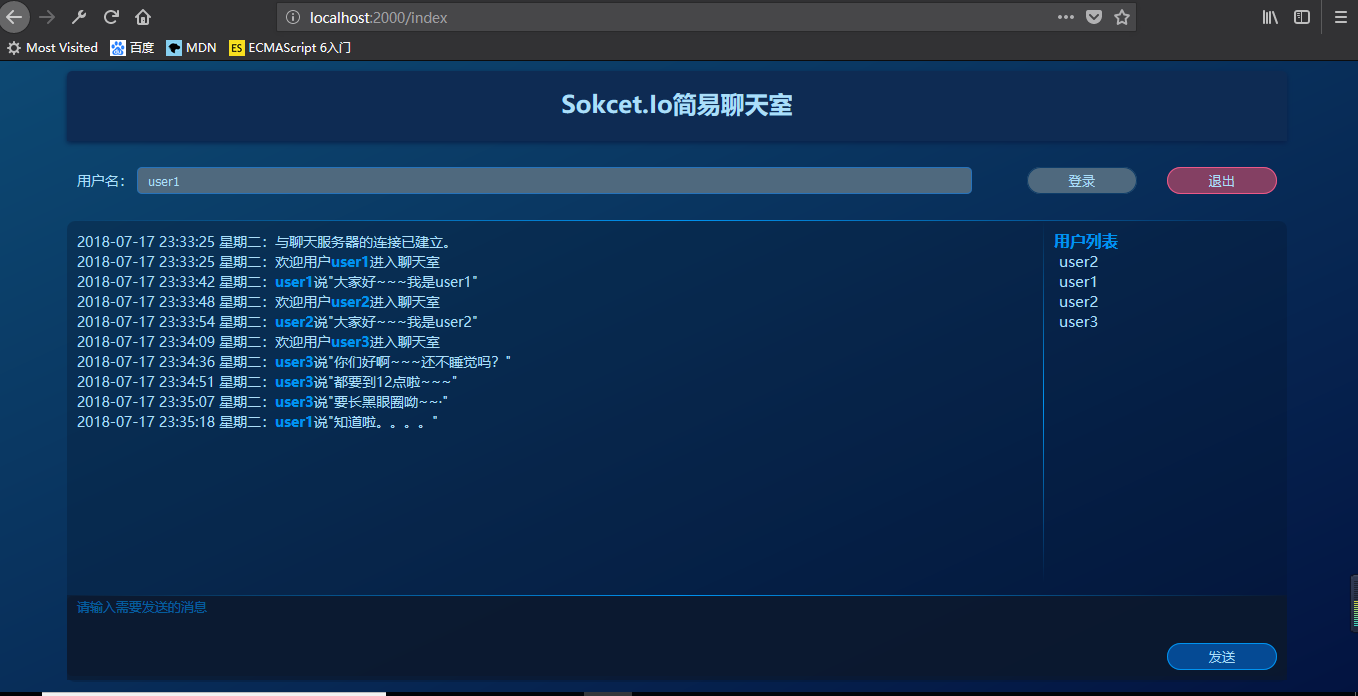
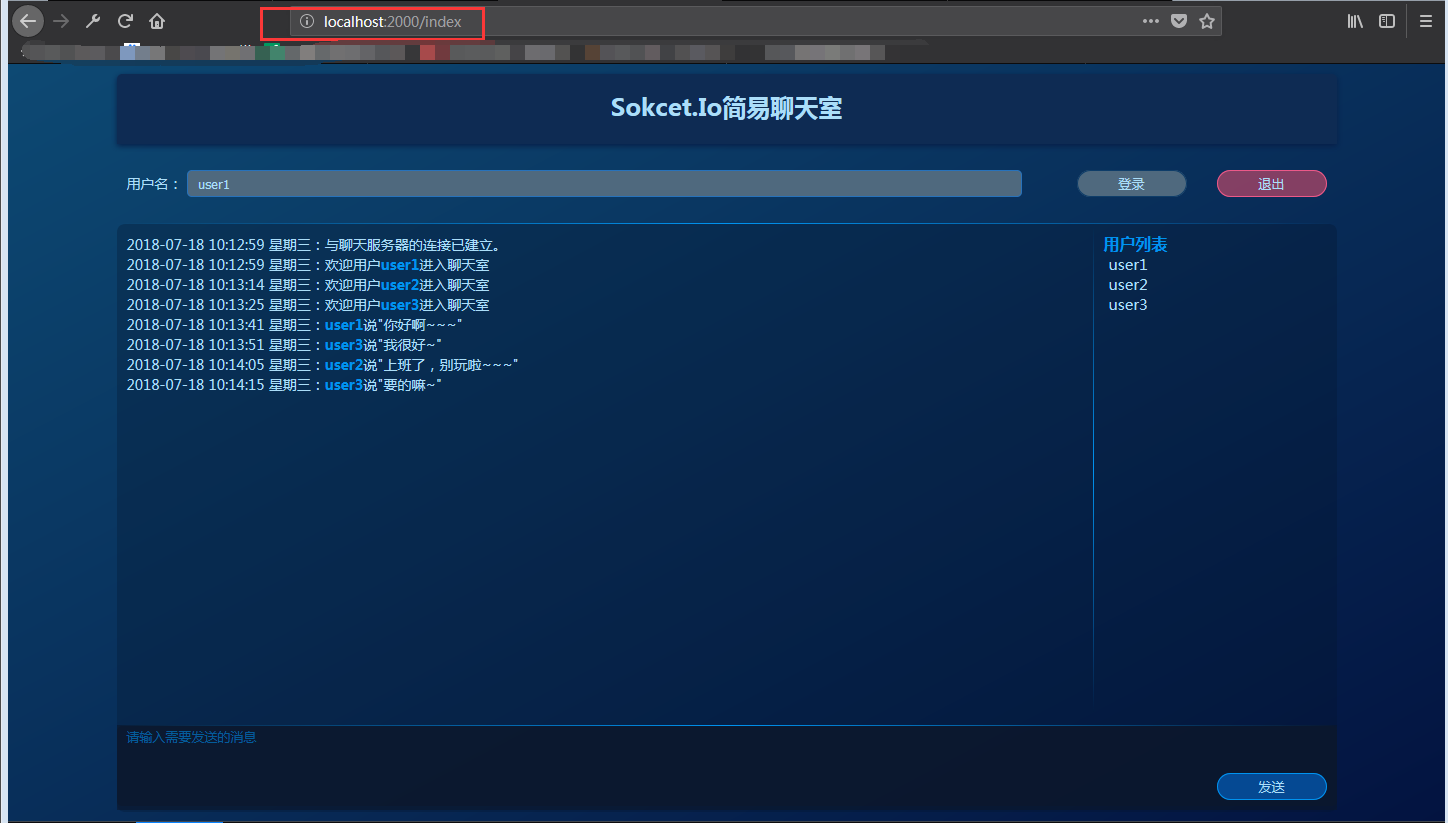
fix bug and update screenshot

Changed region(s): [[0.0, 0.0, 1.0, 1.0]]

diff --git a/public/js/index.js b/public/js/index.js
@@ -108,6 +108,7 @@ function login() {
         // 改变用户列表
         socket.on('chgUserlist', users => {
 
+            userlistBox.innerHTML = '<dt>用户列表</dt>';
             removeChildNode(userlistBox, getDom.byTag('dd', true));
             for (let user of users) {
 
@@ -127,7 +128,7 @@ function login() {
         socket.on('disconnect', user => {
 
             addMsg(`与聊天服务器的连接已断开。`);
-            removeChildNode(userlistBox, getDom.byTag('dd', true));
+            userlistBox.innerHTML = '<dt>用户列表</dt>';
             btnAction.exit();
         });
 
@@ -171,14 +172,13 @@ function exit() {
     socket.emit('exit', inputFiled.value.trim());
     socket.disconnect();
     socket.removeAllListeners('connect');
-    addMsg(`<b class="text-primary">${data}</b>已退出聊天室。`);
+    addMsg(`<b class="text-primary">${inputFiled.value.trim()}</b>已退出聊天室。`);
     btnAction.exit();
 }
 
 // 删除子节点
 function removeChildNode(parent, children) {
 
-    console.log(children.length);
     if (!children || 0 == children.length) {
 
         return false;
